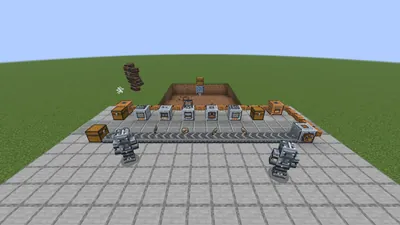
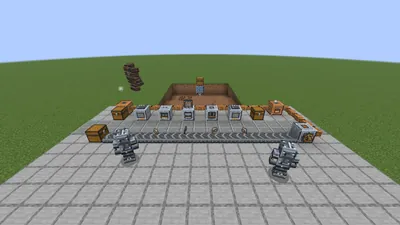
산업크래프트 소개: 0.5.0 베타 9 반영, 화면 다시 찍음
- 버전 0.5.0 베타 9, 테스트 베타 안내를 베타 8 · 9로 나눔, 특징에 작살총 갈고리 · 직접 그린 불꽃과 연기(베타 9)
- 화면 13장(공장 둘 · 사당 · 보스 장비 · 거상 · 파수꾼 · 전초기지 · 엔드 · 크라켄 · 몹 · 특수 장비 · 전기 · 합금로)과 hero · og를 main(0.5.0-beta.9) 소개용 촬영으로 다시 만듦, 같은 크기 · 형식 (수호자 · 강철 장비는 다시 찍어도 같아 그대로)
- '텍스처와 모델은 임시' 문구를 지금의 도트 스타일을 다듬는 중으로

diff --git a/p/sanupcraft/index.html b/p/sanupcraft/index.html
@@ -69,7 +69,7 @@
       </div>
       <p class="caption" id="shot-caption" aria-live="polite"></p>
       <div class="thumbs" id="thumbs" role="group" aria-label="스크린샷 고르기"></div>
-      <p class="shot-note">개발 중 화면입니다. 텍스처와 모델은 임시이고 계속 바뀝니다.</p>
+      <p class="shot-note">개발 중 화면입니다. 텍스처와 모델은 지금의 도트 스타일 그대로 계속 다듬고 있습니다.</p>
     </section>
 
     <section aria-labelledby="about-h" data-embed>
@@ -154,8 +154,12 @@
           <p>깊은 바다의 가라앉은 증기선에서 네 번째 보스를 깨우고, 그 전리품과 해저 망간으로 증기 다음 동력인 전기를 엽니다. 산업 일지의 단계별 보상과 날마다 바뀌는 의뢰 게시판, 몹을 막는 테슬라 코일, 고압 증기를 전기로 바꾸는 대형 발전기와 전기 파워 아머도 0.5 테스트 베타에 들어 있습니다.</p>
         </li>
         <li>
-          <h3>손맛을 다듬은 보스와 보스 장비 <small>(0.5 베타 7)</small></h3>
-          <p>보스마다 허점과 예고가 분명한 패턴으로 다듬었습니다. 보스 전리품으로 만드는 녹슨 망치는 길게 눌러 내려찍고, 화구 방패는 막은 열을 불꽃으로 내뿜고, 공허 지팡이는 몹을 끌어모으는 우물을 남깁니다. 돌아가는 기계는 앞면이 움직입니다.</p>
+          <h3>손맛을 다듬은 보스와 보스 장비 <small>(0.5 베타 7 · 8)</small></h3>
+          <p>보스마다 허점과 예고가 분명한 패턴으로 다듬었습니다. 보스 전리품으로 만드는 녹슨 망치는 길게 눌러 내려찍고, 화구 방패는 막은 열을 불꽃으로 내뿜고, 공허 지팡이는 몹을 끌어모으는 우물을 남깁니다. 작살총은 블록에 맞히면 그쪽으로 몸을 날리는 갈고리가 됩니다. 돌아가는 기계는 앞면이 움직입니다.</p>
+        </li>
+        <li>
+          <h3>직접 그린 불꽃과 연기 <small>(0.5 베타 9)</small></h3>
+          <p>보스의 예고와 공격, 기계의 김과 연기, 몹의 불똥과 거품까지 바닐라 입자를 빼고 이 모드팩만의 그림으로 바꿨습니다. 보스 예고는 보스마다 색이 달라서 입자 설정을 "최소"로 낮춰도 보입니다.</p>
         </li>
         <li>
           <h3>처음이어도 덜 막히게</h3>
@@ -228,7 +232,7 @@
     <div class="panel">
       <dl class="info">
         <div><dt>종류</dt><dd>마인크래프트 모드팩</dd></div>
-        <div><dt>버전</dt><dd id="info-ver">0.5.0 베타 8</dd></div>
+        <div><dt>버전</dt><dd id="info-ver">0.5.0 베타 9</dd></div>
         <div><dt>공개일</dt><dd id="info-date">2026년 11월 13일</dd></div>
         <div><dt>게임</dt><dd>Minecraft Java 26.3</dd></div>
         <div><dt>로더</dt><dd>Fabric</dd></div>
@@ -258,7 +262,8 @@
       <h2>테스트 베타 안내</h2>
       <ul class="small plain">
         <li>공장 · 보스 · 네더 · 엔드 · 창고 네트워크 · 증기 기관차에, 0.4에서 채광 · 전투 · 장비 모듈이, 0.5에서 심해 보스 · 전기 시대 · 산업 일지와 의뢰 · 보스 장비가 더해졌습니다.</li>
-        <li>0.5 베타 8에서 작살총 갈고리(블록에 맞히면 그쪽으로 튐), 보스 장비 아이콘, 안내서 · 일지 화면 다듬기가 들어갔고, 보스부터 기계 · 몹까지 불꽃 · 연기 같은 효과를 모두 새 그림으로 바꿨습니다.</li>
+        <li>0.5 베타 8에서 작살총 갈고리(블록에 맞히면 그쪽으로 튐), 보스 장비 아이콘, 안내서 · 일지 화면 다듬기와 보스 효과의 새 그림이 들어갔습니다.</li>
+        <li>지금 버전 0.5 베타 9에서는 기계 · 몹 · 장비의 연기 · 김 · 불꽃 · 거품도 보스와 같은 새 그림으로 맞췄습니다. 베타 8 월드와 서버 설정을 그대로 씁니다.</li>
         <li>보스 난이도와 기계 수치는 플레이테스트 반응을 보고 계속 맞추는 중입니다.</li>
         <li>느낀 점은 만든 사람에게 직접 알려 주세요. 게임 안에서 <code>/sanupcraft note</code>로 남긴 쪽지와 <code>/sanupcraft report</code> 파일을 같이 주면 좋습니다.</li>
       </ul>
